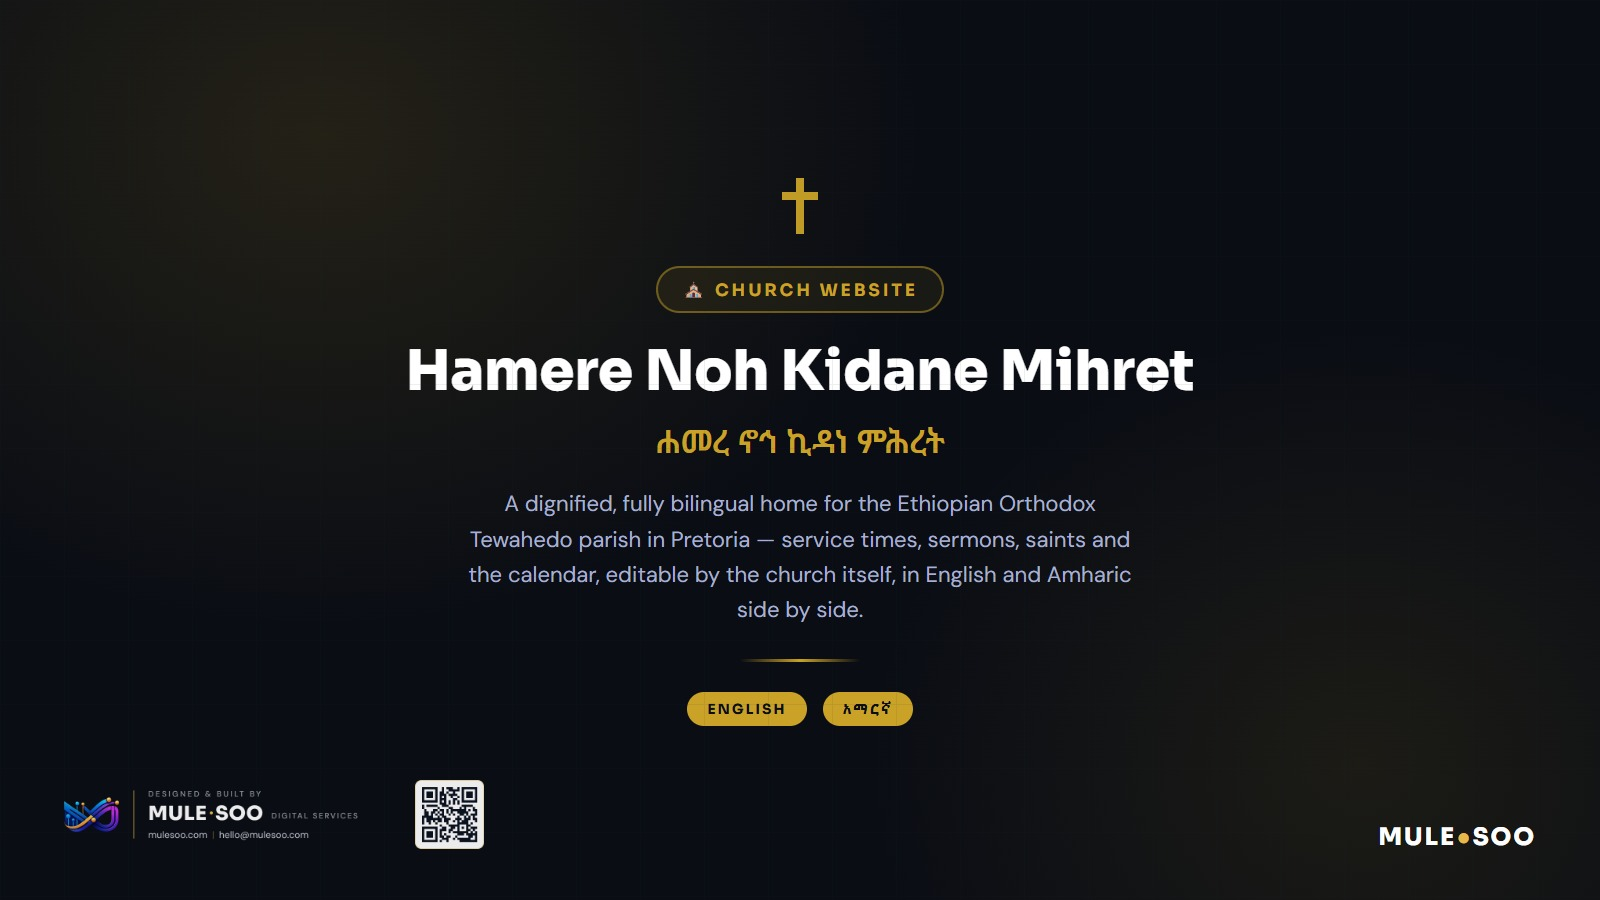
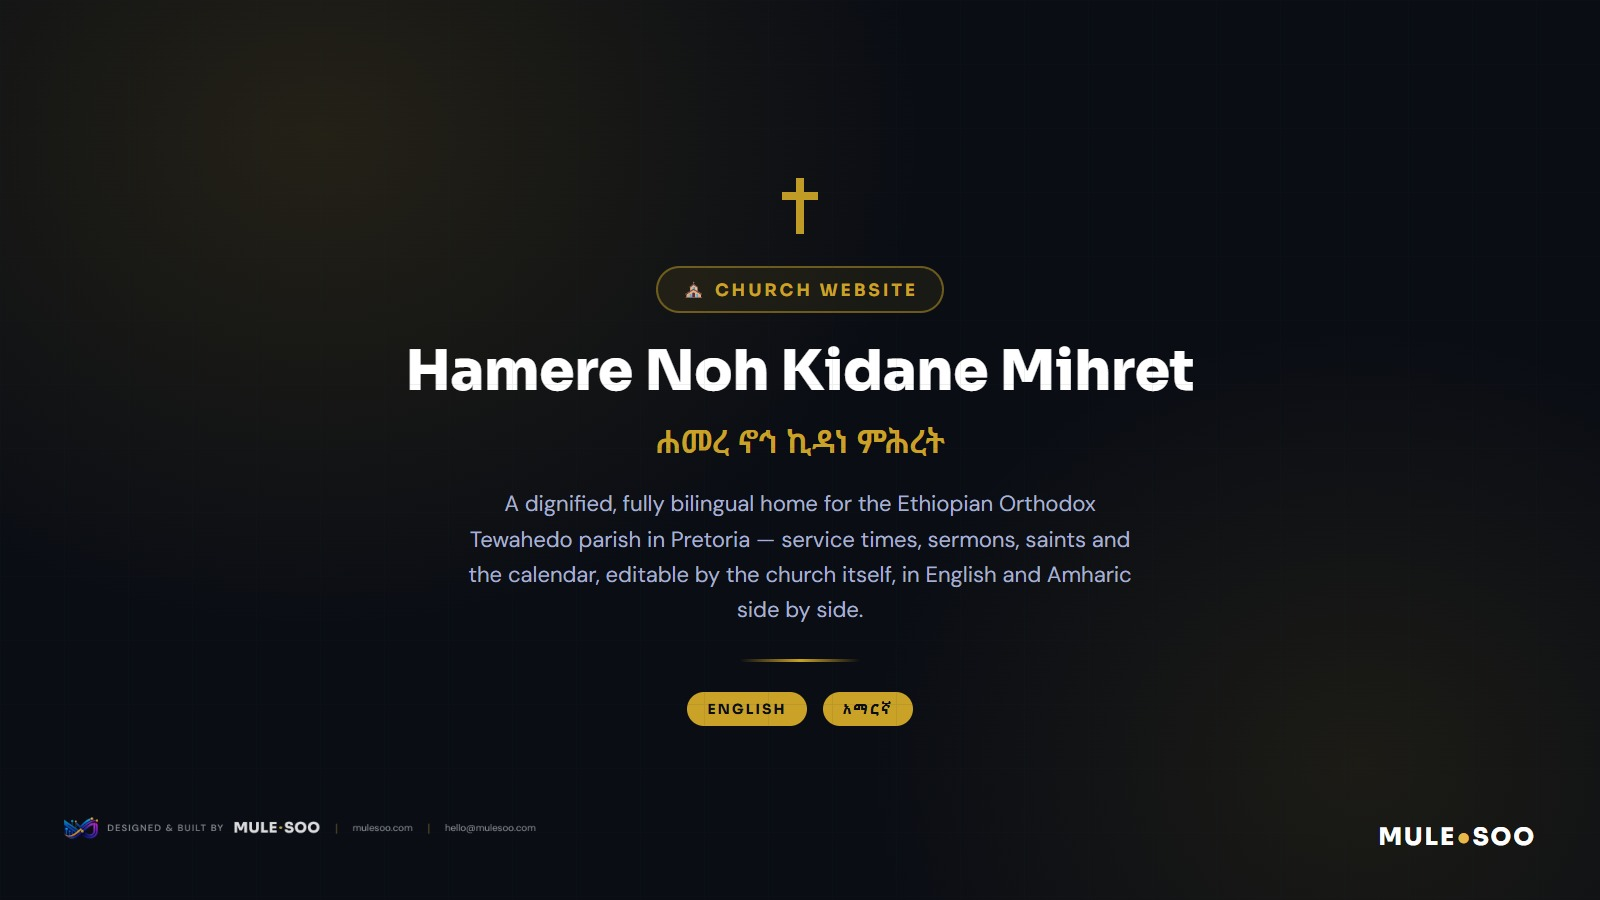
Fix wrong QR stamp, toy-looking Telga terminal, and spec-sheet copy
Three separate corrections from direct feedback on the four covers added in
the previous two commits.

Every cover used mulesoo-credit-stamp-on-dark.png — MuleSoo's own branded
lockup, which bundles a QR code reading "Scan - mulesoo.com". Right asset for
a marketing piece meant to be scanned; wrong one for a portfolio cover, where
it reads as if the project itself has a scan feature. Neither Hamere Noh
Kidane Mihret Church nor Telga do. Swapped to
mulesoo-credit-compact-on-dark.png, the plain text wordmark with no QR,
across all four covers, not just the two flagged - Yewogen and Sena's QR
mentions happened to be accurate to those specific products, which is why
they read less wrong, but the underlying asset choice was the same mistake
on all four.

Telga's terminal looked like a toy because the reference was wrong, not
because of a polish problem: the first draft modelled an old-style
countertop card machine with a physical keypad. Searched what the real
device class (Flash TouchGo2, Kazang-style terminals) actually looks like
before redrawing - modern Android touchscreen handhelds, screen dominating
the front face, no keypad, a swipe slot along the top edge, a chip-insert
slot along the bottom. Redrawn to match that real silhouette.

Telga's positioning also needed correcting, not just its cover: dropped the
Flash/Kazang South Africa comparison and "corner shop" framing entirely from
client-facing copy. Reframed as an entrepreneur-run card-payment business
[…]

Changed region(s): [[0.0312, 0.8711, 0.3125, 0.9644]]

diff --git a/app/portfolio/page.tsx b/app/portfolio/page.tsx
@@ -269,35 +269,30 @@ const fallbackProjects: Project[] = [
   },
   {
     name: 'Yewogen Derash (ወገን ደራሽ)',
-    category: 'Crowdfunding',
-    client: 'Crowdfunding Platform for Ethiopia',
-    description: 'A secure, corporate-grade crowdfunding platform for Ethiopia — every campaign owner identity-verified, every campaign its own QR and ledger, no payment confirmed without a verified gateway webhook.',
+    category: 'Community Fundraising',
+    client: 'Community Fundraising — Ethiopia & Abroad',
+    description: 'A community fundraising platform built for Ethiopians at home and abroad — a simple, trusted way to raise help for a family, a cause, or a community need, free to use and open to anyone who wants to give.',
     image: 'yewogen-derash-portfolio.jpg',
-    result: 'Live — identity-verified crowdfunding',
+    result: 'Live — community fundraising',
     tech: ['Next.js', 'Prisma', 'Supabase', 'Chapa'],
     theme: 'blue',
     site: 'https://yewogenderash.vercel.app',
     purpose:
-      'A crowdfunding platform built on one idea: donors give more when they can trust who they are giving to. Every campaign owner is identity-verified with documents and a live face capture before a campaign can raise a single Birr, funds from different campaigns are never allowed to mix, and no payment is ever marked successful without the payment gateway’s own webhook confirming it.',
+      'Built for society, not for profit from it: a place where Ethiopians — at home and in the diaspora — can come together to help one another. Anyone can start a cause and anyone can give, wherever they are, in a way that feels honest and trustworthy rather than another anonymous donation box.',
     capabilities: [
-      'Campaign owner identity verification — ID documents, live face capture, manual admin review',
-      'One QR code per campaign — scanning it opens exactly that campaign, never a generic homepage',
-      'One campaign = one donation ledger = one payout summary, funds never mixed',
-      'Payments verified server-side against the gateway’s webhook — never trusted from the browser',
-      'Role-based access for donors, campaign owners and admins',
-      'Every admin action audit-logged',
+      'Free for anyone to use — starting a cause or giving to one costs nothing extra',
+      'Open to donors both inside Ethiopia and abroad',
+      'Every campaign owner is verified, so donors know who they are actually helping',
+      'Funds for each cause are kept separate and accounted for',
     ],
     adminTracking: [
-      'Review queue for campaign owner identity verification',
-      'Per-campaign ledger and payout summary',
-      'Full audit log of every admin action',
-      'Donor, owner and admin roles managed centrally',
+      'Oversight of campaigns and the people running them',
+      'A clear record of funds raised and paid out for every cause',
     ],
     boosts: [
-      'Donors give with confidence because every campaign owner is actually verified',
-      'Each campaign’s funds are fully traceable — nothing commingled, nothing to dispute',
-      'A QR code on a poster or flyer takes a donor straight to one specific cause',
-      'Built to survive scrutiny, not just to collect payments',
+      'Makes it easy for the diaspora to help family and community back home',
+      'Donors give with confidence, knowing who they are supporting',
+      'A platform built to serve the community, not just process payments',
     ],
   },
   {
@@ -336,20 +331,20 @@ const fallbackProjects: Project[] = [
   {
     name: 'Telga',
     category: 'Fintech / POS',
-    client: 'Airtime & Bill-Payment Vending — Ethiopia',
-    description: 'A vending network for Ethiopia’s corner shops — airtime and bill payments sold through a POS terminal or Android app, on the same networked-reseller model that made platforms like Flash and Kazang ubiquitous across South African informal retail.',
+    client: 'Card-Payment Airtime & Bill Vending — Ethiopia',
+    description: 'An entrepreneur-led card-payment business for Ethiopia — airtime and bill payments sold on a POS terminal or Android app, anywhere a card can be tapped or swiped: any shop, any market stall, any location.',
     image: 'telga-portfolio.jpg',
     result: 'Upcoming — in active development',
     tech: ['Android', 'POS Terminal SDK', 'Next.js', 'Supabase'],
     theme: 'gold',
     upcoming: true,
     purpose:
-      'Telga brings a proven model to a new market: in South Africa, small shop owners became airtime and bill-payment agents overnight with a POS terminal or an Android phone, no bank card needed from the customer, a small commission on every sale. Telga adapts that same networked-reseller playbook for Ethiopia — a vendor swipes or taps, the customer walks away with airtime, and the vendor earns on volume without carrying stock.',
+      'Telga is a card-payment vending business an entrepreneur can run anywhere — not tied to one kind of shop or one location. A vendor taps or swipes a customer\'s card on a POS terminal or an Android phone, sells airtime or a bill payment in seconds, and earns on every transaction. No cash handling, no stock to carry — just a device and a card reader, set up wherever there is foot traffic: a shop counter, a market stall, an event, anywhere.',
     capabilities: [
-      'Two ways to sell: a dedicated POS terminal for busier shops, an Android app for lighter vendors',
-      'Airtime and bill-payment vending in one flow — tap or swipe, select amount, done',
+      'Two ways to run it: a dedicated POS terminal, or an Android app on an existing phone',
+      'Card payment only — tap or swipe, select amount, done — no cash handling',
+      'Airtime and bill-payment vending in one flow, usable at any location',
       'Per-vendor accounts, commission tracking and a running transaction ledger',
-      'Built for the realities of informal retail — fast transactions, low friction, works on modest hardware',
     ],
     adminTracking: [
       'Vendor network management — onboarding, commission rates, activity',
@@ -357,9 +352,9 @@ const fallbackProjects: Project[] = [
       'Live view of network-wide sales volume',
     ],
     boosts: [
-      'Turns any corner shop into an airtime & bill-payment point — no stock, no risk',
-      'Vendors earn commission on volume they already have foot traffic for',
-      'A model already proven at scale in South Africa, brought to an underserved market',
+      'A real card-payment business an entrepreneur can start with one device',
+      'Works anywhere — no fixed shop or location required',
+      'Vendors earn commission on every card transaction, with no stock or cash risk',
     ],
   },
   {

diff --git a/Issues-Found/Portfolio Copy And Cover Corrections.md b/Issues-Found/Portfolio Copy And Cover Corrections.md
@@ -1,0 +1,78 @@
+---
+title: Portfolio Copy And Cover Corrections
+type: change
+status: in-progress
+found: 2026-08-17
+tags: [change, portfolio, covers, copy]
+---
+
+# Portfolio Copy And Cover Corrections
+
+Feedback on [[Added Three Portfolio Projects]] and [[Telga Portfolio Concept]],
+acted on directly — three separate corrections in one pass.
+
+## 1. The QR "Scan" credit stamp did not belong on these covers
+
+Every cover built in the earlier pass used `mulesoo-credit-stamp-on-dark.png`
+— MuleSoo's own branded stamp, which bundles a QR code reading "Scan ·
+mulesoo.com". That's the right asset for a marketing piece meant to be
+scanned. On a **portfolio project cover**, it reads as if the project itself
+has a scan feature — confusing on Hamere Noh Kidane Mihret Church (no scan
+feature exists) and on Telga (a card-payment device, not a QR device).
+
+Fixed by swapping to `mulesoo-credit-compact-on-dark.png` — the plain text
+wordmark lockup, no QR — across **all four** new covers, not just the two
+flagged, since the same mistake was present on all of them (Yewogen Derash
+and Sena's QR mentions happened to be factually accurate to those specific
+products, which is why they read less wrong, but the underlying asset choice
+was still the marketing stamp in the wrong context).
+
+## 2. Telga's cover looked like a toy, and the design reference was wrong
+
+Called out directly: "no button seen no screen seen swiping place its looks
+toy." Traced this to a real modelling error, not just a polish problem — the
+first design copied an old-style countertop card machine (small screen above
+a physical numeric keypad). Researched what the actual reference device class
+looks like before redrawing anything (`WebSearch`, Flash TouchGo2 / Kazang
+terminal class): these are modern **Android touchscreen handheld units** —
+the screen fills nearly the whole front face, there is no physical keypad,
+a magstripe swipe slot sits along the top edge, a chip-insert slot along the
+bottom.
+
+Redrawn around that real silhouette: tall handheld yellow-cased body, the
+screen dominant rather than a small panel, a visible swipe slot with a card
+mid-drag at the top, an insert slot at the bottom. This is also why Telga's
+own `tech` array already said `Android` — the redraw now actually matches
+that.
+
+## 3. Telga's positioning was wrong, not just its copy
+
+Original copy framed Telga as South-Africa-inspired and scoped to "corner
+shops" — both explicitly rejected: "this project supposed to be entrepreneur
+job... do not mention any small shop... telga uses anywhere any shops and
+marketing place." Rewritten throughout (`page.tsx` and the cover's own
+text) to drop the Flash/Kazang South Africa comparison from anything
+client-facing and reframe as an entrepreneur-run card-payment business usable
+anywhere — any shop, any market stall, any location — not scoped by
+geography or shop size.
+
+## 4. Yewogen Derash was pitched like a spec sheet, not a cause
+
+"Just like gofundme... do not write un neccessary advertisment scan what
+what... write clear description mention as we built for society do not write
+steps how to use it." The existing copy led with KYC checks, webhooks, and a
+literal "Scan opens this campaign only" line baked into the cover's own
+mocked-up card — accurate, but reads as a payments spec, not a fundraising
+platform. Rewritten simply: a trusted way for Ethiopians at home and abroad
+to help each other, free to use, built for the community — no technical
+steps, no scan language, and (per instruction) no comparison to any named
+platform.
+
+## Related
+
+- [[Added Three Portfolio Projects]]
+- [[Telga Portfolio Concept]]
+- [[Verification Method]]
+
+---
+Back to [[Issues MOC]]

diff --git a/Issues-Found/Issues MOC.md b/Issues-Found/Issues MOC.md
@@ -44,6 +44,7 @@ client codebases that were moved out.
 | [[Added Three Portfolio Projects]] | Kidane Mihret, Yewogen Derash, Sena — with a real invented-text mistake caught before shipping |
 | [[Telga Portfolio Concept]] | A new venture concept, not an existing project — clearly labelled as such |
 | [[Two-Stage Booking Payment]] | R100 booking fee gates the owner alert, deposit email and PDF — none fire until Paystack confirms it |
+| [[Portfolio Copy And Cover Corrections]] | Wrong QR stamp, a toy-looking Telga terminal, and spec-sheet copy where warm copy belonged — all corrected |
 
 ---
 
